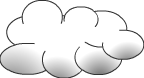
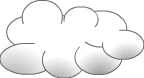
More clouds and windmills

diff --git a/src/scrollables/GreenHills.java b/src/scrollables/GreenHills.java
@@ -37,6 +37,15 @@ public class GreenHills extends Background {
                     new Vector2f(529.0f + 1400, 510.0f)
                    // new Vector2f(1385.0f + 1400, 343.0f)
             ));
+            setWindmillCoordinates(Arrays.asList(
+                    new Vector2f(100.0f + 1400, 550.0f),
+                    new Vector2f(2009.0f + 1400, 450.0f)
+            ));
+
+            setCloudCoordinates(Arrays.asList(
+                    new Vector2f( 0f + (int)(Math.random() * ((1000 - 0) + 1)) + 1400, 20f + (int)(Math.random() * ((100 - 20) + 1))),
+                    new Vector2f( 0f + (int)(Math.random() * ((1000 - 0) + 1)) + 1400,  20f + (int)(Math.random() * ((100 - 20) + 1)))
+            ));
 
         }
 
@@ -51,7 +60,6 @@ public class GreenHills extends Background {
                     new Vector2f(1400, 353.0f)
             ));
             setWindmillCoordinates(Arrays.asList(
-                    new Vector2f(529.0f + 1400, 510.0f),
                     new Vector2f(729.0f + 1400, 550.0f),
                     new Vector2f(1029.0f + 1400, 600.0f),
                     new Vector2f(1729.0f + 1400, 300.0f),
@@ -59,7 +67,8 @@ public class GreenHills extends Background {
             ));
 
             setCloudCoordinates(Arrays.asList(
-                    new Vector2f(529.0f + 1400, 50.0f)
+                    new Vector2f( 0f + (int)(Math.random() * ((1000 - 0) + 1)) + 1400,  20f + (int)(Math.random() * ((100 - 20) + 1))),
+                    new Vector2f( 0f + (int)(Math.random() * ((1000 - 0) + 1)) + 1400,  20f + (int)(Math.random() * ((100 - 20) + 1)))
             ));
 
         }
@@ -67,6 +76,16 @@ public class GreenHills extends Background {
         if (type == 3) {
             this.setImage("data/image/backgrounds/Hills3c.png");
             this.setCollisionImage("data/image/backgrounds/Hills3c_mask.png");
+
+            setWindmillCoordinates(Arrays.asList(
+                    new Vector2f(100.0f + 1400, 550.0f),
+                    new Vector2f(2009.0f + 1400, 450.0f)
+            ));
+
+            setCloudCoordinates(Arrays.asList(
+                    new Vector2f( 0f + (int)(Math.random() * ((1000 - 0) + 1)) + 1400,  20f + (int)(Math.random() * ((100 - 20) + 1))),
+                    new Vector2f( 0f + (int)(Math.random() * ((1000 - 0) + 1)) + 1400,  20f + (int)(Math.random() * ((100 - 20) + 1)))
+            ));
         }
 
         if (type == 4) {
@@ -78,6 +97,15 @@ public class GreenHills extends Background {
             setShieldCoordinates(Arrays.asList(
                     new Vector2f(730.0f + 1400, 650.0f)
             ));
+
+            setWindmillCoordinates(Arrays.asList(
+                    new Vector2f(100.0f + 1400, 550.0f),
+                    new Vector2f(2009.0f + 1400, 450.0f)
+            ));
+
+            setCloudCoordinates(Arrays.asList(
+                    new Vector2f( 0f + (int)(Math.random() * ((1000 - 0) + 1)) + 1400,  20f + (int)(Math.random() * ((100 - 20) + 1)))
+            ));
         }
 
         if (type == 5) {
@@ -85,6 +113,16 @@ public class GreenHills extends Background {
             this.setCollisionImage("data/image/backgrounds/Hills3e_mask.png");
             setShieldCoordinates(Arrays.asList(
                     new Vector2f(990.0f + 1400, 353.0f)
+            ));
+
+            setWindmillCoordinates(Arrays.asList(
+                    new Vector2f(100.0f + 1400, 550.0f),
+                    new Vector2f(2009.0f + 1400, 450.0f)
+            ));
+
+            setCloudCoordinates(Arrays.asList(
+                    new Vector2f( 0f + (int)(Math.random() * ((1000 - 0) + 1)) + 1400,  20f + (int)(Math.random() * ((100 - 20) + 1))),
+                    new Vector2f( 0f + (int)(Math.random() * ((1000 - 0) + 1)) + 1400,  20f + (int)(Math.random() * ((100 - 20) + 1)))
             ));
         }
 
@@ -97,6 +135,16 @@ public class GreenHills extends Background {
             //setGoldCoordinates(Arrays.asList(
             //        new Vector2f(529.0f + 1400, 210.0f)
             //));
+
+            setWindmillCoordinates(Arrays.asList(
+                    new Vector2f(100.0f + 1400, 550.0f),
+                    new Vector2f(2009.0f + 1400, 450.0f)
+            ));
+
+            setCloudCoordinates(Arrays.asList(
+                    new Vector2f( 0f + (int)(Math.random() * ((1000 - 0) + 1)) + 1400,  20f + (int)(Math.random() * ((100 - 20) + 1))),
+                    new Vector2f( 0f + (int)(Math.random() * ((1000 - 0) + 1)) + 1400,  20f + (int)(Math.random() * ((100 - 20) + 1)))
+            ));
         }
 
         if (type == 7) {
@@ -104,6 +152,17 @@ public class GreenHills extends Background {
             this.setCollisionImage("data/image/backgrounds/Hills3g_mask.png");
             setCoordinates(Arrays.asList(
                     new Vector2f(2385.0f + 1400, 343.0f)
+            ));
+
+            setWindmillCoordinates(Arrays.asList(
+                    new Vector2f(100.0f + 1400, 550.0f),
+                    new Vector2f(2009.0f + 1400, 450.0f)
+            ));
+
+            setCloudCoordinates(Arrays.asList(
+                    new Vector2f( 0f + (int)(Math.random() * ((1000 - 0) + 1)) + 1400,  20f + (int)(Math.random() * ((100 - 20) + 1))),
+                    new Vector2f( 0f + (int)(Math.random() * ((1000 - 0) + 1)) + 1400,  20f + (int)(Math.random() * ((100 - 20) + 1))),
+                    new Vector2f( 0f + (int)(Math.random() * ((1000 - 0) + 1)) + 1400,  20f + (int)(Math.random() * ((100 - 20) + 1)))
             ));
         }
     }

diff --git a/src/graphic/Cloud.java b/src/graphic/Cloud.java
@@ -17,10 +17,10 @@ public class Cloud extends Powerup implements BalloonEffect {
 
 
     public Cloud() throws SlickException {
-        super("data/image/cloud1.png");
+        super("data/image/cloud2.png");
         this.scale = .8f + (int)(Math.random() * ((1.8 - .8) + 1));
         this.colour = null;
-        this.step = -2;
+        this.step = -3;
     }
 
 
@@ -35,7 +35,7 @@ public class Cloud extends Powerup implements BalloonEffect {
 
     @Override
     public void move(int delta) {
-        x += delta / 1000 + step;;//To change body of overridden methods use File | Settings | File Templates.
+        x += delta / 1000 + step;//To change body of overridden methods use File | Settings | File Templates.
     }
 
     @Override
